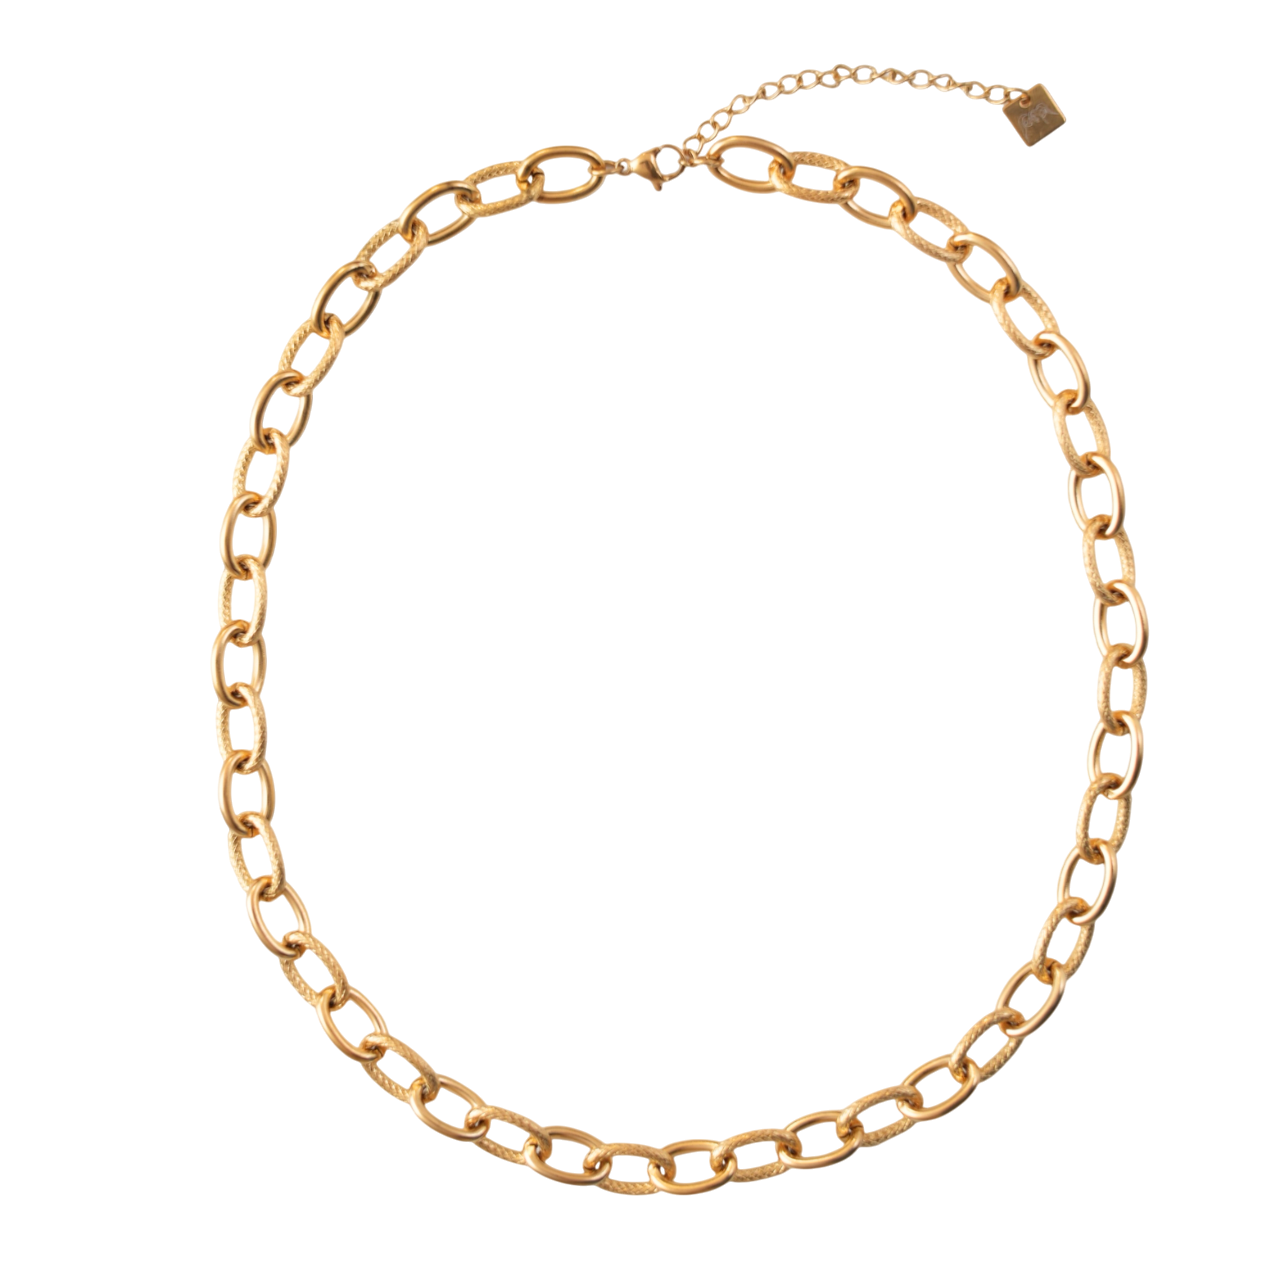
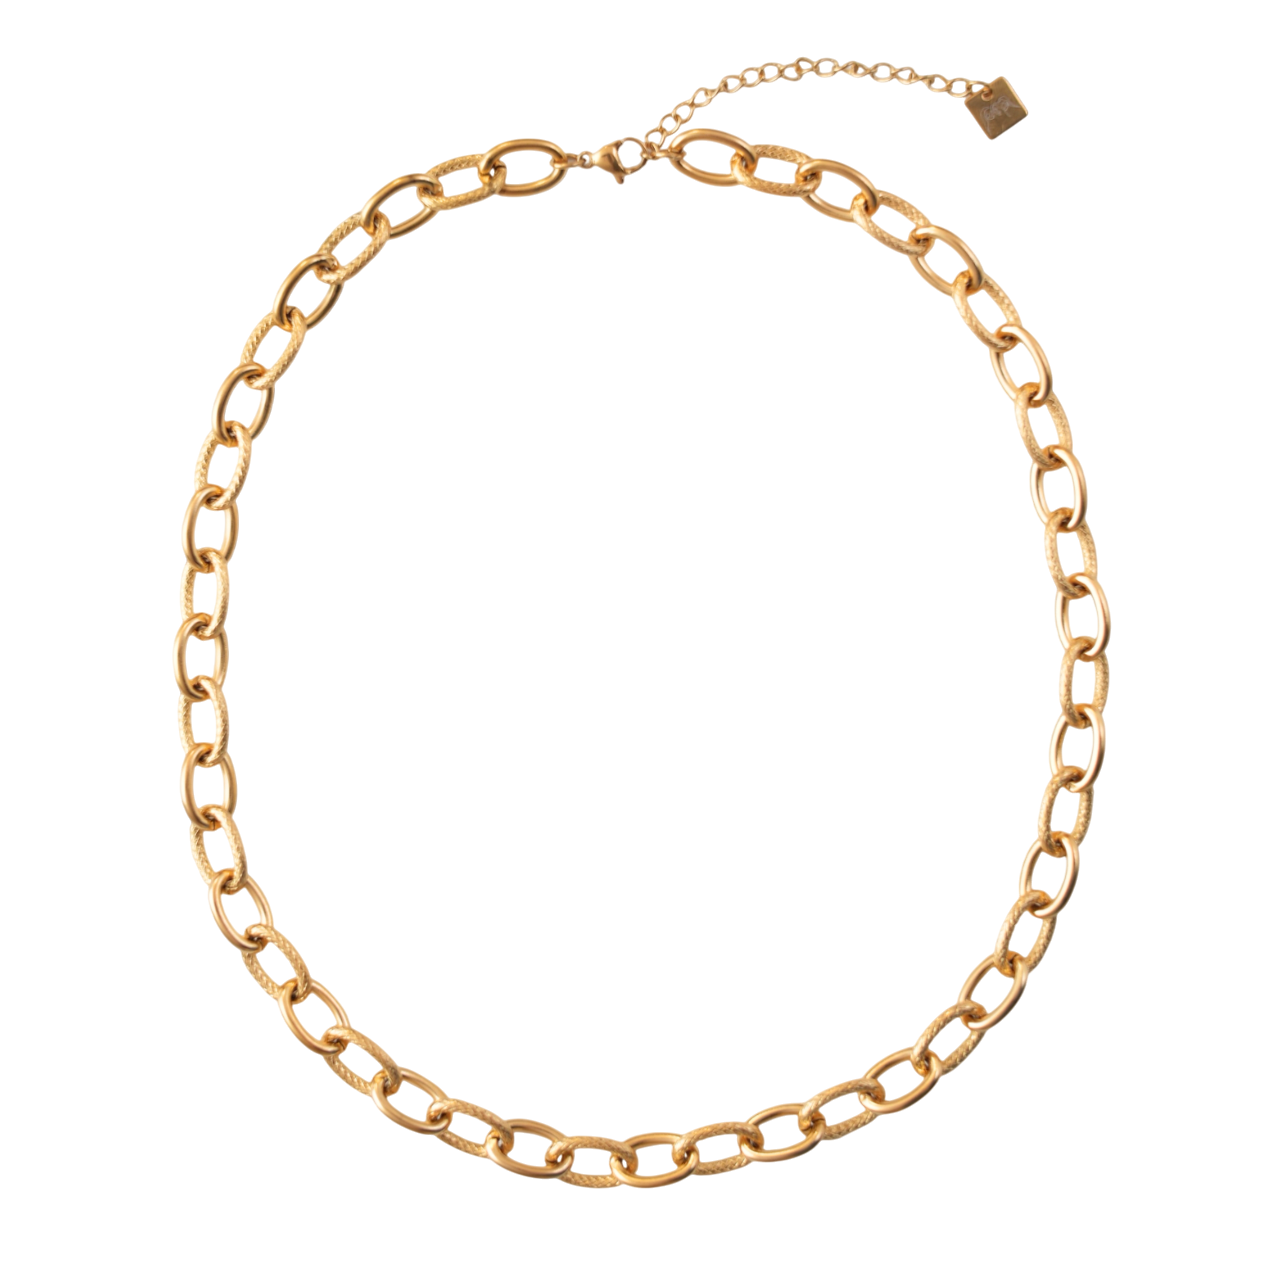
fix(NecklaceDisplay): update attachment point positions and enhance scaling for better visual presentation

Changed region(s): [[0.125, 0.0312, 0.9062, 0.9375]]

diff --git a/src/data/necklaces.ts b/src/data/necklaces.ts
@@ -9,20 +9,20 @@ export const necklaces: Necklace[] = [
     imagePath: getImagePath('images/necklaces/grigri.png'),
     variationId: 12764,
     attachmentPoints: [
-      { id: 'gg-point1', position: { x: 18, y: 44 }, isOccupied: false },
-      { id: 'gg-point2', position: { x: 18, y: 54 }, isOccupied: false },
-      { id: 'gg-point3', position: { x: 19, y: 65 }, isOccupied: false },
-      { id: 'gg-point4', position: { x: 22, y: 74 }, isOccupied: false },
-      { id: 'gg-point5', position: { x: 29, y: 82 }, isOccupied: false },
-      { id: 'gg-point6', position: { x: 38, y: 89 }, isOccupied: false },
-      { id: 'gg-point7', position: { x: 47, y: 92 }, isOccupied: false },
-      { id: 'gg-point8', position: { x: 56, y: 92 }, isOccupied: false },
-      { id: 'gg-point9', position: { x: 67, y: 89 }, isOccupied: false },
-      { id: 'gg-point10', position: { x: 76, y: 84 }, isOccupied: false },
-      { id: 'gg-point11', position: { x: 82.5, y: 76.25 }, isOccupied: false },
-      { id: 'gg-point12', position: { x: 87, y: 66.5 }, isOccupied: false },
-      { id: 'gg-point13', position: { x: 88.5, y: 56 }, isOccupied: false },
-      { id: 'gg-point14', position: { x: 88.5, y: 46 }, isOccupied: false },
+      { id: 'gg-point1', position: { x: 15, y: 44 }, isOccupied: false },
+      { id: 'gg-point2', position: { x: 15, y: 54 }, isOccupied: false },
+      { id: 'gg-point3', position: { x: 16, y: 65 }, isOccupied: false },
+      { id: 'gg-point4', position: { x: 19, y: 74 }, isOccupied: false },
+      { id: 'gg-point5', position: { x: 26, y: 82 }, isOccupied: false },
+      { id: 'gg-point6', position: { x: 35, y: 89 }, isOccupied: false },
+      { id: 'gg-point7', position: { x: 44, y: 92 }, isOccupied: false },
+      { id: 'gg-point8', position: { x: 53, y: 92 }, isOccupied: false },
+      { id: 'gg-point9', position: { x: 64, y: 89 }, isOccupied: false },
+      { id: 'gg-point10', position: { x: 73, y: 84 }, isOccupied: false },
+      { id: 'gg-point11', position: { x: 79.5, y: 76.25 }, isOccupied: false },
+      { id: 'gg-point12', position: { x: 84, y: 66.5 }, isOccupied: false },
+      { id: 'gg-point13', position: { x: 84.5, y: 56 }, isOccupied: false },
+      { id: 'gg-point14', position: { x: 84.5, y: 46 }, isOccupied: false },
     ]
   },
   {

diff --git a/src/styles/NecklaceDisplay.scss b/src/styles/NecklaceDisplay.scss
@@ -341,6 +341,8 @@
       max-width: 100%;
       margin: 0 auto;
       overflow: visible;
+      transform: scale(1.2);
+      transform-origin: center center;
     }
     
     .attachment-point {
@@ -377,7 +379,15 @@
   }
   
   @media (max-width: 480px) {
-    padding-bottom: 70px; /* Increased from 40px */
+    padding-bottom: 90px; /* Increased to accommodate larger necklace */
+    
+    .necklace-container {
+      max-width: 100%;
+      margin: 0 auto 30px;
+      overflow: visible;
+      transform: scale(1.3);
+      transform-origin: center center;
+    }
     
     .placed-charm {
       transform-origin: center center !important;
